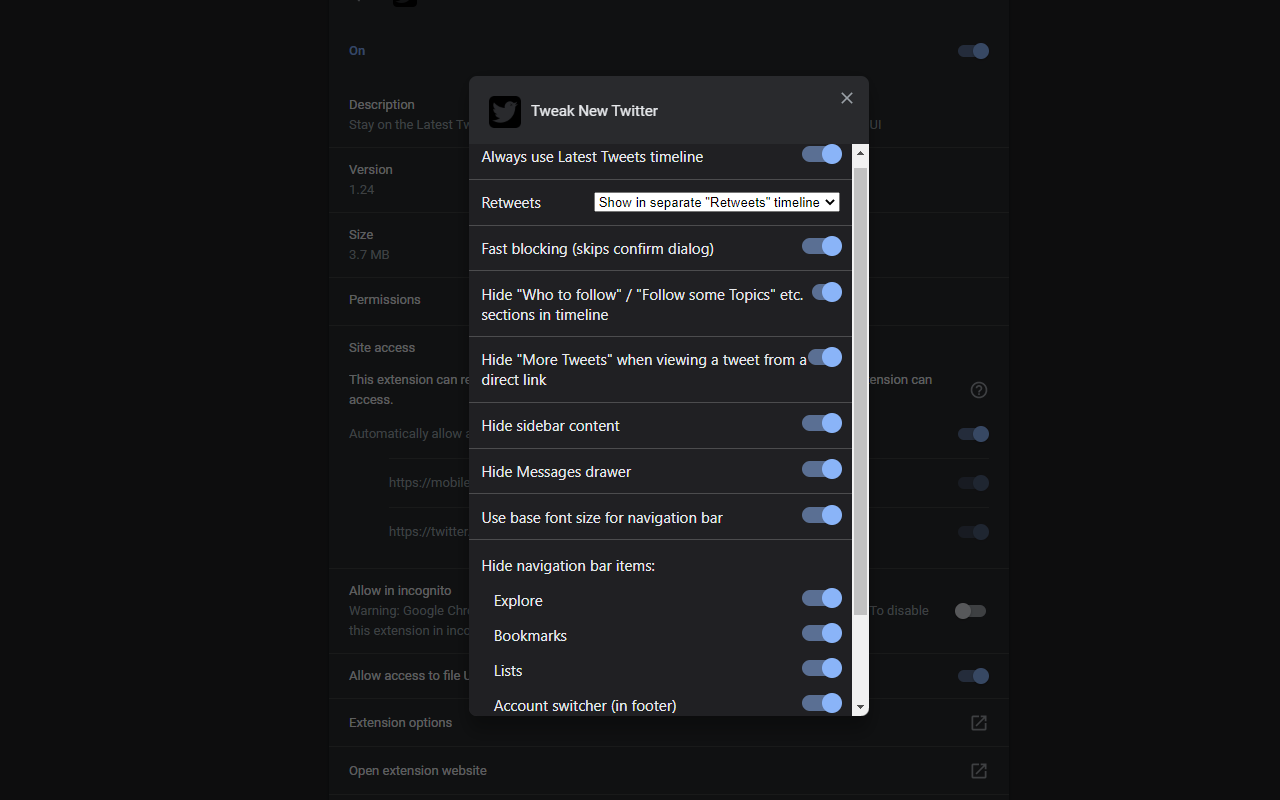
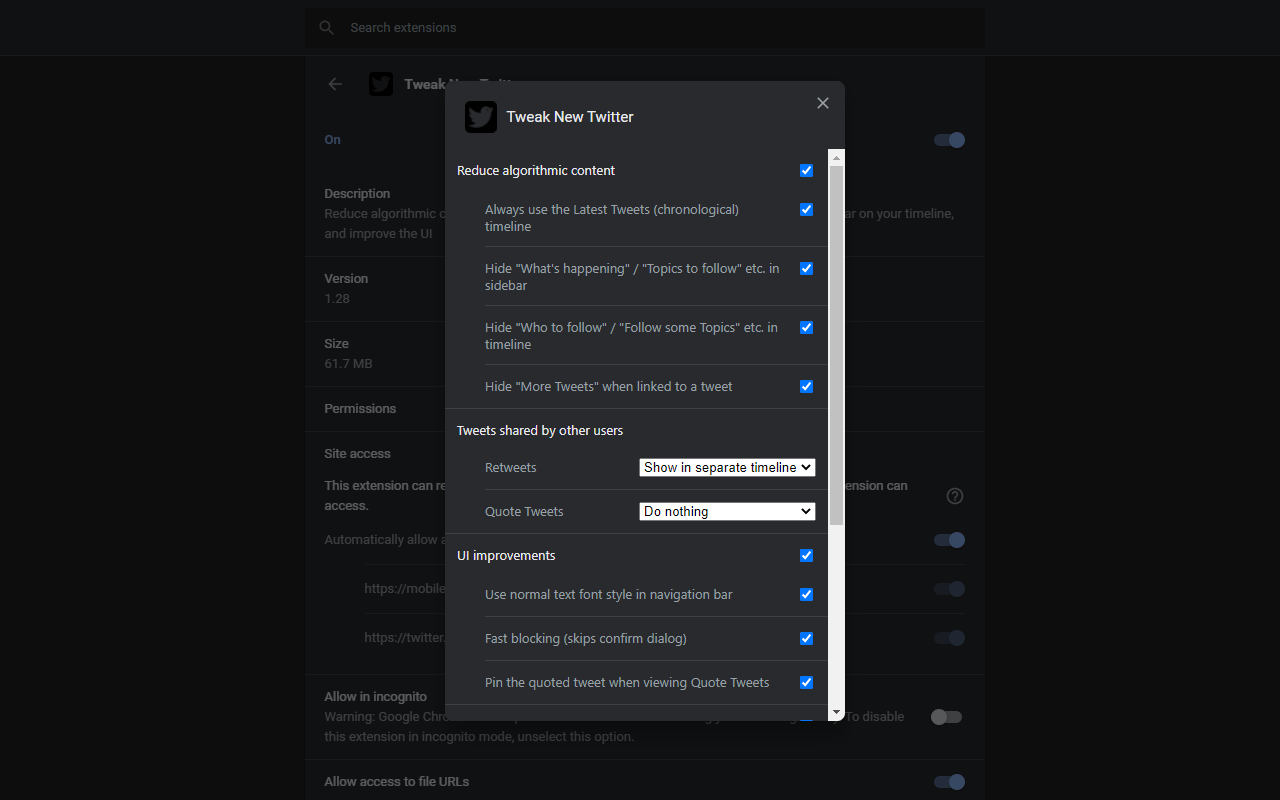
Update README and screenshots

diff --git a/README.md b/README.md
@@ -2,7 +2,9 @@
 
 ![](icons/icon128.png)
 
-**Stay on the Latest Tweets timeline, reduce "engagement" and tone down some of Twitter's UI**
+**Tweak New Twitter is a browser extension which reduces algorithmic content on Twitter, hides toxic trends in the sidebar, lets you control which shared tweets appear on your timeline, and adds other UI improvements**
+
+## Install
 
 * [Install Firefox Add-on](https://addons.mozilla.org/en-US/firefox/addon/tweak-new-twitter/)
 * [Install Edge Add-on](https://microsoftedge.microsoft.com/addons/detail/tweak-new-twitter/foccddlibbeccjiobcnakipdpkjiijjp)
@@ -11,42 +13,44 @@
 
 ## Features
 
-_Enabled by default_
+### Reduce algorithmic content
 
-- Always use the Latest Tweets (chronological) timeline - automatically switches you back when Twitter decides they'd rather you were on the "Home" (algorithmic) timeline because "engagement"
-- Move retweets to a separate Retweets timeline, or hide them entirely
+- Keeps you on the "Latest Tweets" (chronological) timeline, automatically switching you back if time Twitter tries to move you to the "Home" (algorithmic) timeline
 - Hide "Who to follow" / "Follow some Topics" etc. sections in the timeline
-- Hide "More Tweets" when viewing a tweet from an external link
-- Fast blocking - skips the confirmation dialog when you try to block someone
-- Remove sidebar content (Trends, Who to follow, sidefooter)
-- Hide the Messages drawer
-- Remove some less-used links from the primary nav (Explore, Bookmarks, Links)
-- Hide the account switcher in the primary nav footer
-- Use the site's base font size and normal font weight in the primary nav to make it less distracting (using your selected font size from the Display / Customize your view dialog)
+- Hide "What's happening" / "Topics to follow" etc. in the sidebar
+- Hide "More Tweets" when linked to a tweet
 
-## Optional features
+### Control which tweets shared by people you follow appear on your timeline
 
-_Disabled by default_
+- Move Retweets to a separate timeline (default setting), or hide them entirely
+- Move Quote Tweets and replies to them to a separate timeline, or hide them entirely (off by default)
 
-- Hide tweets by - or quoting - verified accounts (simulating the aftermath of the Twitter hacks in July 2020), or highlight them if you want to check how much of your timeline content is driven by verified accounts.
+### UI improvements
+
+- Use the site's normal text font style in the primary navigation menu to make it less distracting
+- Fast blocking - skips the confir dialog when you try to block someone
+- When viewing a tweet's Quote Tweets, pin the quoted tweet instead of duplicating it in every tweet
+- Hide any navigation items you don't use, such as the Explore, Bookmarks and Links navigation items, the account switcher, and the Messages drawer
 
 ## Screenshots
 
-Timeline view with all default tweaks:
+### Home timeline with default settings
 
-![Screenshot of a New Twitter timeline without retweets, sidebar content, nav links which can be hidden and a less distracting nav style](screenshots/timeline.png)
+![Screenshot of a Twitter home timeline without retweets, sidebar content, navigation items the extension can hide, and a less distracting navigation font style](screenshots/timeline.png)
 
-The new Retweets timeline, containing retweets only:
+### Separate timeline for Retweets and/or Quote Tweets
 
-![Screenshot of the Retweets timeline Tweak New Twitter adds to New Twitter, containing nothing but retweets](screenshots/retweets.png)
+![Screenshot of the separate timeline Tweak New Twitter adds to Twitter, configured to separate Retweets from the rest of the home timeline](screenshots/shared_tweets.png)
 
-Chrome extension options dialog:
+### Improved Quote Tweets page
 
-![Screenshot of the options UI in Chrome](screenshots/chrome_options_dark.png)
+![Screenshot of the improvements Tweak New Twitter makes to Quote Tweet pages, removing repetition of the quoted tweet to make more room for quotes](screenshots/quote_tweets.png)
 
-Firefox extension page options:
+### Configurable via extension options
 
-![Screenshot of the options UI in Firefox](screenshots/firefox_options_dark.png)
+| Options dialog in Chrome | Options page in Firefox |
+| ------------------------ | -------------------- |
+| ![Screenshot of the options UI in Chrome](screenshots/chrome_options_dark.png) | ![Screenshot of the options UI in Firefox](screenshots/firefox_options_dark.png) |
 
 ## Attribution
 
